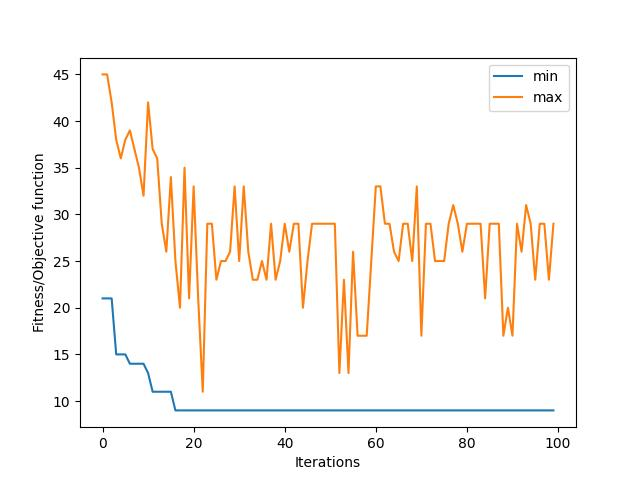
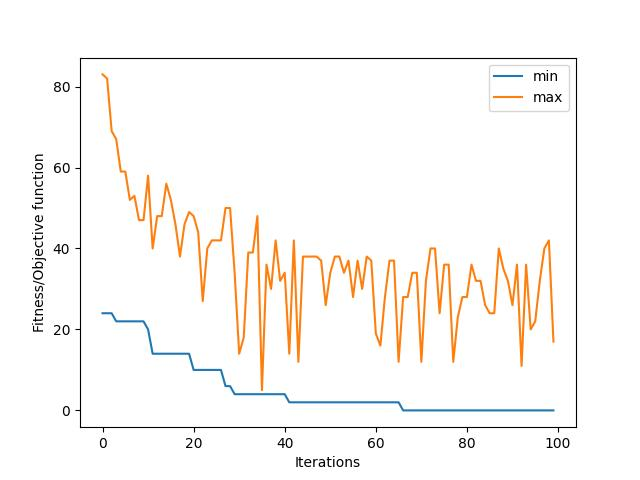
Readme changes + ga params

diff --git a/genetic_evo/main.py b/genetic_evo/main.py
@@ -15,23 +15,25 @@ parser.add_argument('--mutation_prob', '-p', default=0.05, type=float,
 parser.add_argument('--elitism', '-e', default=0.2, type=float,
                     help='percentage of population to keep after an iteration')
 parser.add_argument('--thresh', default=None, type=float,
-                    help='threshold for function function')
+                    help='threshold for function')
+parser.add_argument('-K', default=10, type=int,
+                    help='length of list to be sorted')
 parser.add_argument('--iterations', '-i', default=100, type=int,
                     help='Number of iterations to run the evolution for (threshold is ignored if iterations are provided)')
 
 args = parser.parse_args()
 
-def run_ga_sort(initial_pop, mutation_prob, elitism, threshold, iterations):
+def run_ga_sort(initial_pop, mutation_prob, elitism, list_size, threshold, iterations):
 	if iterations is not None:
 		run_logs = ga(sort_f, sort_mutation, sort_crossover, sort_initial_pop, elitism=elitism,
-                pop=initial_pop, mutation_prob=mutation_prob, iterations=iterations)
+                pop=initial_pop, mutation_prob=mutation_prob, iterations=iterations, list_size=list_size)
 	else:
 		run_logs = ga(sort_f, sort_mutation, sort_crossover, sort_initial_pop, elitism=elitism,
-                pop=initial_pop, mutation_prob=mutation_prob, threshold=threshold)
+                pop=initial_pop, mutation_prob=mutation_prob, threshold=threshold, list_size=list_size)
 	return run_logs
 
 if __name__ == "__main__":
-	x_opt, run_logs, (x, y) = run_ga_sort(args.pop,args.mutation_prob,args.elitism,
+	x_opt, run_logs, (x, y) = run_ga_sort(args.pop,args.mutation_prob,args.elitism,list_size=args.K,
 										 threshold=args.thresh, iterations=args.iterations)
 	print("Optimal solution: ",x, y)
 	print("Final iteration: ",x_opt[:5,:])

diff --git a/genetic_evo/ga.py b/genetic_evo/ga.py
@@ -9,13 +9,13 @@ def generate_T_decay(T, decay, threshold):
         T = T*decay
         yield T
 
-def ga(fitness, mutation, crossover, pop_generator, elitism=0.2, pop=100 , mutation_prob=0.05, iterations=100, threshold=None):
+def ga(fitness, mutation, crossover, pop_generator, elitism=0.2, pop=100 , mutation_prob=0.05, iterations=100, threshold=None, list_size=100):
     log = []
     if iterations is not None and threshold is not None:
         raise ValueError("Specify one of iterations and threshold")
     
     # initial population
-    x = pop_generator(pop)
+    x = pop_generator(pop, list_size)
     to_keep = int(elitism*pop)
 
     for i in generate_iter(iterations):

diff --git a/genetic_evo/function.py b/genetic_evo/function.py
@@ -2,15 +2,14 @@ import numpy as np
 
 rng = np.random.default_rng()
 
-K = 10
-
-def sort_initial_pop(size):
+def sort_initial_pop(size, K):
     original = [np.expand_dims(np.arange(K),0) for _ in range(size)]
     permuted = [rng.permutation(x,axis=1) for x in original]
     return np.concatenate(permuted,axis=0)
 
 def sort_f(x):
-    return np.sum(np.abs(x[:,:-1]-x[:,1:]),axis=1)
+    k = x.shape[-1]
+    return np.sum(np.abs(x[:,:-1]-x[:,1:]),axis=1) - (k-1)
     # return (x-1)*(x+2)*x*(x+3) + (x-4)*(x-6)*(x+1)
 
 def sort_mutation(x, p):

diff --git a/README.md b/README.md
@@ -1,6 +1,17 @@
+# Bio-inspired optimization algorithms
 Handbook on optimization algorithms by MIT Press: [PDF](https://algorithmsbook.com/optimization/files/optimization.pdf) under Creative Commons License
 
-### Simulated Annealing
+Code for each algorithm is separated into 4 main files:
+- `main.py`: running the main function and definition of user-configurable options
+- `<algorithm>.py`: main algorithm for the relevant optimizer. Passing relevant samplers, objective functions along with options defined in `main.py` will make it work
+- `utils.py`: graphing functions
+- `function.py`: defining samplers, objective functions, crossover/mutation relevant for each sample objective
+
+## Simulated Annealing
+### Objective function(s)
+Mix of sinusoidal functions. Sample output is present in `output/base.jpg`
+
+### Output
 On running main,py, graphs are generated for the objective function defined in `annealing/function.py` for the following:
 - GIF of candidates and objective function as temperature changes
 - Temperature vs iterations
@@ -8,6 +19,21 @@ On running main,py, graphs are generated for the objective function defined in `
 - Objective function vs iterations
 - Plot of the objective function
 
+Sample outputs are present in `annealing/output/`
+
+### Configs
 Initialization and configuration options are available in `annealing/main.py`
 
-Sample outputs are present in `annealing/output/`
+
+## Genetic Algorithm
+### Objective function(s)
+Generating a sorted list of first K non-negative integers (can sort in increasing or decreasing order)
+
+### Output
+On running main,py, a graph for worst and best performer in an iteration is generated in `genetic_evo/output/`.
+
+Sample outputs are present in `genetic_evo/output/`
+
+### Configs
+Initialization and configuration options are available in `genetic_evo/main.py`
+
